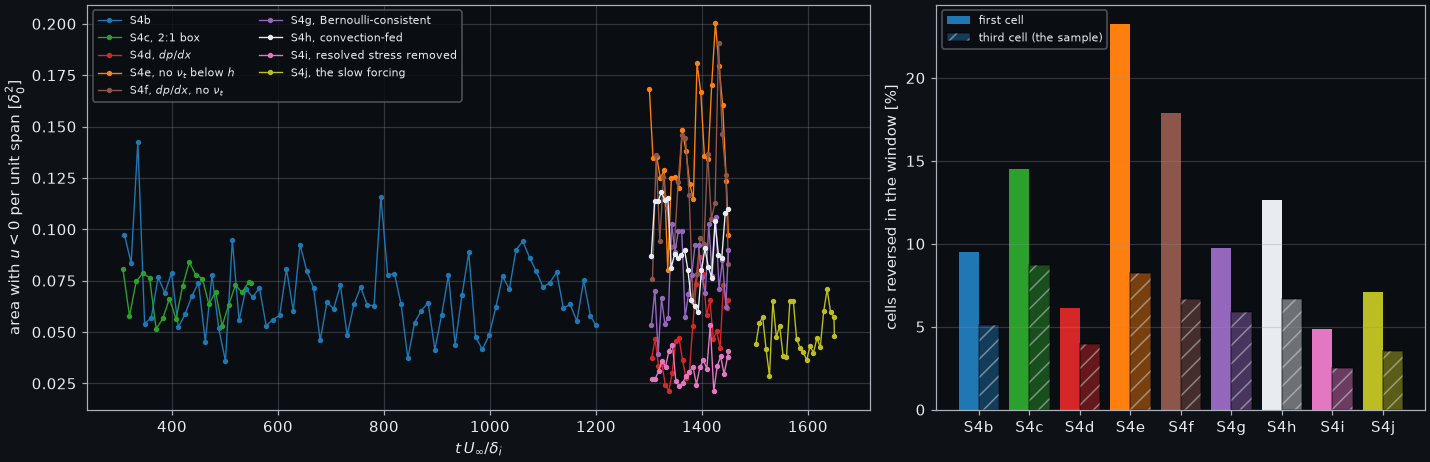
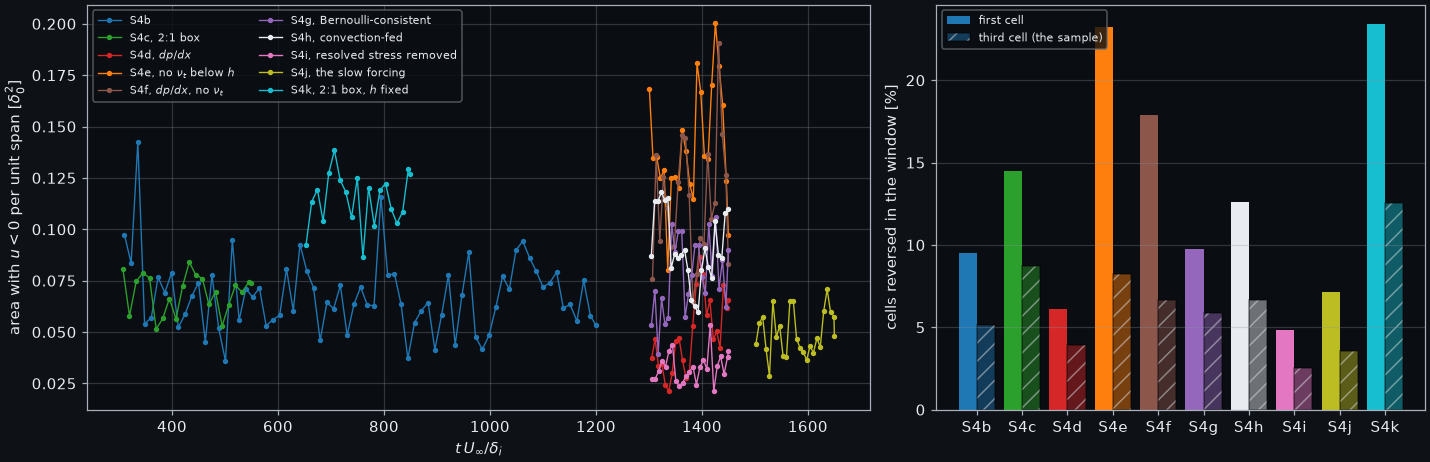
docs(flume): S4k, the matching height fixed in delta_i on the refined grid: the zero-gradient layer kept, a mean reversed first cell under a positive tau_w (#121)
S4c's 2:1 box (delta_i/24 for 25 <= x <= 75, y < 3) with wall_model_height = 5/24 delta_i, S4b's matching point, 5 fine cells
below it (S4c: 2.5, h halved), the plain equilibrium model: the configuration of Kawai & Larsson (2012) and Hoy & Bermejo-Moreno
(2022) on this grid. Restarted from S4c at t = 550 to 850; statistics t >= 650 (20 checkpoints).

- Zero-gradient layer: C_f over 35 <= x <= 48 +1.7 % against S4b (S4c +10.9 %): the criterion of 2 %, fixed before the run,
  passes; the log-layer mismatch of the halved matching height was S4c's drift.
- Interaction: L_int / delta_0 3.26 (DNS 3.30, S4b 3.15); the compression 0.25 delta_0 earlier than S4b's; the time-mean u of the
  first cell negative over 1.10 delta_0 (x 57.6-59.5, the downstream half of the DNS bubble), the second over 0.68: the first mean
  resolved reversal with the plain equilibrium model. tau_w stays positive (minimum 0.14e-3): the bubble lies below h, and the
  flux coupling of the face does not see it.
- Found on the way, documented, not fixed: outside the box h falls on the 3rd cell's centre, sample_cells returns the weight
  4.4e-16 instead of 0, and the eddy viscosity below h (mc = m - merge(1, 0, w == 0), adam_flume_fnl_forcing_kernels.F90:395)
  also enters the sample cell: C_f upstream of the box +4.2 % against S4b.

sbli.md: the section "The matching height fixed: S4k" (setup, criteria, table against S4c, S4b and the DNS), the De Vanna et al.
[…]

diff --git a/src/tests/flume/verification/make_doc_figures.py b/src/tests/flume/verification/make_doc_figures.py
@@ -2952,6 +2952,63 @@ def fig_sbli_refined(out: Path, runs: Path) -> None:
     plt.close(fig)
 
 
+def fig_sbli_fixed_h(out: Path, runs: Path) -> None:
+    """#121 S4k: the 2:1 box of S4c with the matching height fixed at S4b's, 5/24 delta_i (5 fine cells below it), restarted from S4c at t = 550,
+    against S4b and S4c (h halved with the cells). Data: the sbli_oracle JSONs <runs>/sbli/sbli-m2p28-8.json (S4b), -r2.json (S4c), -r2h.json
+    (S4k). Left: the wall pressure against x* with the DNS and the IUSTI points; right: C_f against x, the box and the zero-gradient stretch
+    35 <= x <= 48 shaded, each run's mean over that stretch against S4b's in the legend, the stretch where the time-mean u of the first cell is
+    negative hatched (the JSON's l_sep_u1, when present)."""
+    import json  # noqa: PLC0415
+
+    runs_ = [("sbli-m2p28-8", "C0", r"S4b, $\delta_i/12$, $h = 5/24\,\delta_i$"), ("sbli-m2p28-8-r2", "C3", r"S4c, 2:1 box, $h$ halved in it"),
+             ("sbli-m2p28-8-r2h", "k", r"S4k, 2:1 box, $h = 5/24\,\delta_i$ fixed")]
+    runs_ = [r for r in runs_ if (runs / "sbli" / f"{r[0]}.json").exists()]
+    js = {name: json.loads((runs / "sbli" / f"{name}.json").read_text()) for name, _, _ in runs_}
+
+    def zpg(j: dict) -> float:
+        x, cf = np.array(j["x"]), np.array(j["cf"])
+        return float(cf[(x >= 35.0) & (x <= 48.0)].mean())
+
+    ref = zpg(js["sbli-m2p28-8"])
+    fig, axs = plt.subplots(1, 2, figsize=(13.0, 4.4), constrained_layout=True)
+    ax = axs[0]
+    _sbli_refs(ax)
+    for name, c, lab in runs_:
+        j = js[name]
+        ax.plot(j["x_star"], j["pw_norm"], "-", color=c, lw=1.3, label=rf"{lab}: $L_{{int}}/\delta_0$ {j['l_int'] / j['delta0']:.2f}")
+    ax.axvline(-1.0, color="0.6", ls=":", lw=0.8)
+    ax.axvline(0.0, color="0.6", ls="--", lw=0.8)
+    ax.set_xlim(-2.0, 3.0)
+    ax.set_xlabel(r"$x^* = (x - x_{imp}) / L_{int}$")
+    ax.set_ylabel(r"$(p_w - p_\infty) / (p_2 - p_\infty)$")
+    ax.grid(alpha=0.3)
+    ax.legend(fontsize=7, loc="lower right")
+    ax = axs[1]
+    ax.axvspan(25.0, 75.0, color="C3", alpha=0.06, lw=0, label="the 2:1 box")
+    ax.axvspan(35.0, 48.0, color="0.5", alpha=0.12, lw=0, label=r"zero-gradient stretch $35 \leq x \leq 48$")
+    for name, c, lab in runs_:
+        j = js[name]
+        x, cf = np.array(j["x"]), np.array(j["cf"])
+        m = (x > 20.0) & (x < 85.0)
+        sep = rf"$\tau_w<0$ over {j['l_sep'] / j['delta0']:.2f} $\delta_0$" if j["l_sep"] > 0.0 else r"$\tau_w>0$"
+        l1 = j.get("l_sep_u1", 0.0)
+        if l1 > 0.0:  # the resolved flow's mean reversal: the first cell's time-mean u < 0, which tau_w misses below the sample
+            sep += rf", first cell $u<0$ over {l1 / j['delta0']:.2f} $\delta_0$"
+            ax.axvspan(j["x_sep_u1"], j["x_att_u1"], color=c, alpha=0.18, lw=0, hatch="///", fill=False)
+        ax.plot(x[m], 1e3 * cf[m], "-", color=c, lw=1.2, label=f"{lab.split(',')[0]}: stretch {100.0 * (zpg(j) / ref - 1.0):+.1f} %, {sep}")
+        if j["l_sep"] > 0.0:
+            ax.axvspan(j["x_sep"], j["x_att"], color=c, alpha=0.15, lw=0)
+    ax.axhline(0.0, color="k", lw=0.8)
+    ax.axvline(js["sbli-m2p28-8"]["x_imp"], color="0.6", ls="--", lw=0.8)
+    ax.set_xlim(20.0, 85.0)
+    ax.set_xlabel(r"$x/\delta_i$")
+    ax.set_ylabel(r"$10^3 C_f$ (the wall model's $\tau_w$)")
+    ax.grid(alpha=0.3)
+    ax.legend(fontsize=7, loc="upper left")
+    fig.savefig(out / "sbli-fixed-h.png", dpi=DPI)
+    plt.close(fig)
+
+
 def fig_sbli_apriori(out: Path, runs: Path) -> None:
     """#121 S4d P0: the equilibrium wall model applied a priori to the mean samples of S4b and S4c (sbli_oracle.py apriori), without and with the
     mean pressure gradient in its momentum balance, against the C_f of the runs' wall history. Data: <runs>/sbli/sbli-m2p28-8-apriori.json (S4b)
@@ -3211,7 +3268,7 @@ def fig_sbli_reversal(out: Path, runs: Path) -> None:
     runs_ = [("s4b", "S4b", "C0"), ("s4c", "S4c, 2:1 box", "C2"), ("s4d", "S4d, $dp/dx$", "C3"), ("s4e", r"S4e, no $\nu_t$ below $h$", "C1"),
              ("s4f", r"S4f, $dp/dx$, no $\nu_t$", "C5"), ("s4g", "S4g, Bernoulli-consistent", "C4"), ("s4h", "S4h, convection-fed", "k"),
              ("s4i", "S4i, resolved stress removed", "C6"),
-             ("s4j", "S4j, the slow forcing", "C8")]
+             ("s4j", "S4j, the slow forcing", "C8"), ("s4k", r"S4k, 2:1 box, $h$ fixed", "C9")]
     runs_ = [r for r in runs_ if (runs / "sbli" / f"rev2-{r[0]}.json").exists()]
     fig, axs = plt.subplots(1, 2, figsize=(13.0, 4.2), constrained_layout=True, gridspec_kw={"width_ratios": [1.6, 1.0]})
     first, third, labels, colors = [], [], [], []
@@ -5214,7 +5271,7 @@ FIGURES = {"sod": fig_sod, "lax": fig_lax, "shu-osher": fig_shu_osher, "vortex":
            "barotropic-eos": fig_barotropic_eos,
            "tgv-iles": fig_tgv_iles, "tgv-models": fig_tgv_models, "hit": fig_hit, "tgv-hybrid": fig_tgv_hybrid, "channel-wm": fig_channel_wm,
            "channel-m3": fig_channel_m3, "channel-m3-ev": fig_channel_m3_ev, "tbl-m2p5": fig_tbl_m2p5, "tbl-m6": fig_tbl_m6, "tbl-m2p5-res": fig_tbl_m2p5_res, "tbl-m2p5-hdef": fig_tbl_hdef, "tbl-edge": fig_tbl_edge, "nrbc": fig_nrbc, "shockgen": fig_shockgen, "shockgen-reflect": fig_shockgen_reflect,
-           "sbli": fig_sbli, "sbli-fields": fig_sbli_fields, "sbli-refined": fig_sbli_refined, "sbli-apriori": fig_sbli_apriori, "sbli-pg": fig_sbli_pg, "sbli-onset": fig_sbli_onset, "sbli-nonu": fig_sbli_nonu, "sbli-cells": fig_sbli_cells, "tbl-convection": fig_tbl_convection, "sbli-reversal": fig_sbli_reversal, "sbli-convective": fig_sbli_convective, "sbli-scales": fig_sbli_scales, "sbli-pg-runs": fig_sbli_pg_runs, "sbli-pg-fields": fig_sbli_pg_fields, "sbli-refined-fields": fig_sbli_refined_fields, "tbl-fields": fig_tbl_fields, "tbl-3d": fig_tbl_3d, "channel-fields": fig_channel_fields, "tgv-fields": fig_tgv_fields,
+           "sbli": fig_sbli, "sbli-fields": fig_sbli_fields, "sbli-refined": fig_sbli_refined, "sbli-fixed-h": fig_sbli_fixed_h,"sbli-apriori": fig_sbli_apriori, "sbli-pg": fig_sbli_pg, "sbli-onset": fig_sbli_onset, "sbli-nonu": fig_sbli_nonu, "sbli-cells": fig_sbli_cells, "tbl-convection": fig_tbl_convection, "sbli-reversal": fig_sbli_reversal, "sbli-convective": fig_sbli_convective, "sbli-scales": fig_sbli_scales, "sbli-pg-runs": fig_sbli_pg_runs, "sbli-pg-fields": fig_sbli_pg_fields, "sbli-refined-fields": fig_sbli_refined_fields, "tbl-fields": fig_tbl_fields, "tbl-3d": fig_tbl_3d, "channel-fields": fig_channel_fields, "tgv-fields": fig_tgv_fields,
            "barotropic-gravity": fig_barotropic_gravity,
            "barotropic-mhd": fig_barotropic_mhd,
            "sink-particles": fig_sink_particles,

diff --git a/docs/applications/flume/verification/streams/sbli.md b/docs/applications/flume/verification/streams/sbli.md
@@ -2,7 +2,7 @@
 
 | ID | Milestone | Type | Legs | Backends | Figure |
 |---|---|---|---|---|---|
-| — (campaign `tbl_cases_s4.txt`) | [#121](https://github.com/szaghi/adam/issues/121) · S4b–S4j | P | none (the pressure-gradient key: wm12) | FNL | yes |
+| — (campaign `tbl_cases_s4.txt`) | [#121](https://github.com/szaghi/adam/issues/121) · S4b–S4k | P | none (the pressure-gradient key: wm12) | FNL | yes |
 
 ## Case and scope
 
@@ -152,12 +152,59 @@ outside it, the box outlined in orange in the schlieren). `make_doc_figures.py -
   an adjustment over about $10\,\delta_i$ behind the 2:1 face, it is 10 % higher before the interaction. The
   equilibrium model's $\tau_w$ follows the velocity at its matching point, and that point moved from $0.12$ to
   $0.06\,\delta_0$ (the log-layer mismatch of Kawai & Larsson 2012). A matching height fixed in $\delta_i$, not in
-  cells, would keep the two levels consistent.
+  cells, would keep the two levels consistent; it does, within 1.7 % ([S4k](#the-matching-height-fixed-s4k)).
 - **What remains is the model.** The equilibrium model integrates a constant total stress across its layer, so its
   $\tau_w$ turns negative only where the velocity at the matching height reverses on average. With the matching point
   at $0.06\,\delta_0$ it does not; the pressure-gradient term, which lets $\tau_w$ reverse under a strong adverse
   gradient while the matching velocity is still positive, was tested next
   ([below](#the-wall-model-with-the-pressure-gradient)): a bubble of $0.6\,\delta_0$, a quarter of the DNS's.
+
+### The matching height fixed: S4k
+
+The configuration of Kawai & Larsson (2012) and of Hoy & Bermejo-Moreno (2022) on this grid: the matching height fixed in
+$\delta_i$ instead of in cells, `wall_model_height` $=5/24\,\delta_i=0.117\,\delta_0$, S4b's matching point, with 5 cells below it
+in the box (S4c: 2.5 cells, $h$ halved). Plain equilibrium model, eddy viscosity below $h$. S4c restarted from $t=550$ to 850 on
+S4c's two nodes (8 A30, 18 h 33 min, 1.19 s per step); the statistics take the span and the 20 checkpoints of $653\le t\le850$
+(`sbli_oracle.py compare --t0 650`). Criteria fixed before the run: (a) $C_f$ over $35\le x\le48$ (in the box, past the
+adjustment behind the 2:1 face, ahead of the interaction) within 2 % of S4b's, where S4c is +10.9 % by the same measure; (b) a
+mean bubble and $L_{int}$ within 10 % of the DNS's.
+
+![S4k against S4b and S4c: wall pressure and skin friction](/flume/sbli-fixed-h.png)
+
+*Left: the mean wall pressure of S4b, S4c and S4k against the DNS and the experiment. Right: $C_f$ from the wall model's
+$\tau_w$, the box and the stretch $35\le x\le48$ shaded, the stretch where the time-mean $u$ of S4k's first cell is negative hatched.
+`make_doc_figures.py --only sbli-fixed-h`.*
+
+| | S4k, 2:1 box, $h$ fixed | S4c, 2:1 box, $h$ halved | S4b | DNS, $Re_\theta=6882$ |
+|---|---|---|---|---|
+| $Re_\theta$ at $x_{imp}$, nominal; $\delta_0$ | 5253; 1.783 | 5314; 1.824 | 5247; 1.807 | |
+| $C_f$ over $35\le x\le48$ against S4b | **+1.7 %** | +10.9 % | | |
+| $C_f$ against S4b: $x=15$–24 (outside the box), 45–52, 64–70, 76–90 | +4.2, +2.2, $-4.5$, $-8.3$ % | $-0.3$, +7.6, +1.5, $-7.6$ % | | |
+| $L_{int}/\delta_0$ | **3.26** | 3.04 | 3.15 | 3.30 |
+| $L_{sep}/\delta_0$ from $\tau_w$; $C_f$ minimum ($10^{-3}$) | 0; 0.14 at $x=58.6$ | 0; 0.10 at $x=58.4$ | 0; 0.22 at $x=58.6$ | 2.16 ($x^*=-0.8$ to $-0.15$) |
+| time-mean $u<0$: first cell; second cell | **$x=57.6$–59.5, $1.10\,\delta_0$** ($x^*=-0.41$ to $-0.08$); $0.68\,\delta_0$ | none | none | |
+| 5 % / 50 % of the rise, $\delta_0$ ahead of $x_{imp}$ | 2.58 / 2.28 | 2.33 / 2.00 | 2.34 / 1.96 | 4.13 / 3.60 |
+| $(p_w-p_\infty)/(p_2-p_\infty)$ at $x^*=-0.5$, 0, 0.5, 1, 2 | 1.02, 1.57, 2.11, 2.28, 2.39 | 0.89, 1.76, 2.14, 2.26, 2.39 | 1.12, 1.72, 2.09, 2.24, 2.37 | 1.75, 2.07, 2.22, 2.29, 2.36 |
+| reversed area per unit span, mean (max), $\delta_0^2$ | 0.115 (0.138) | 0.069 (0.084) | 0.068 (0.142) | |
+| first / third cells reversed in the window | 23.4 % / 12.6 % | 14.5 % / 8.7 % | 9.5 % / 5.1 % | |
+
+The two refined runs count fine cells, S4b coarse ones: the reversed fractions compare S4k with S4c.
+
+- **(a) passes: the matching height fixed in $\delta_i$ keeps the refined layer on S4b's.** Over $35\le x\le48$ $C_f$ is 1.7 %
+  above S4b's, against S4c's 10.9 %: the log-layer mismatch of the halved matching height was S4c's drift. One difference outside
+  the box was not planned: there $h=5/24\,\delta_i$ falls on the 3rd cell's centre, the sample weight comes out $4\cdot10^{-16}$ instead
+  of 0, and the eddy viscosity below $h$, which skips the sample cell only when the weight is exactly 0, also enters the 3rd cell
+  (`sample_cells`, `adam_flume_wall_model_library.F90`). Upstream of the box $C_f$ is then 4.2 % above S4b's, and the layer
+  entering the box carries that.
+- **(b) half passes: the resolved flow separates, the wall stress does not.** $L_{int}$ is the DNS's within 1.2 %, and the
+  compression starts $0.25\,\delta_0$ earlier than in S4b and S4c (still $1.5\,\delta_0$ behind the DNS's). For the first time with
+  the plain equilibrium model the time-mean $u$ of the first cell is negative, over $1.10\,\delta_0$ (half the DNS's bubble, in its
+  downstream half), and of the second over $0.68\,\delta_0$; a quarter of the first cells are reversed in the window. The model's
+  $\tau_w$ stays positive everywhere (minimum $0.14\cdot10^{-3}$): the bubble is about two fine cells tall, below the matching height,
+  and the model, which sees only the flow at $h$, keeps the positive $\tau_w$ of a forward flow over a reversed first cell.
+- **So the remaining gap is the coupling.** The face takes the model's $\tau_w$ whatever the first cell does; a coupling through the
+  wall viscosity with the no-slip condition kept (De Vanna et al. 2022), where the first cell sets the sign of the wall stress, is
+  the next test ([wall models in the literature](#wall-models-for-this-interaction-in-the-literature)).
 
 ## The wall model with the pressure gradient
 
@@ -293,6 +340,7 @@ suggests on these runs.
 | Hickel, Touber, Bodart & Larsson (2012, CTR Summer Program) | this interaction (IUSTI, $8^\circ$), a priori on the wall-resolved LES of Touber & Sandham (2009); an adverse-pressure-gradient layer | Above the viscous layer the convective term balances the pressure gradient (Bernoulli), so a model that keeps $dp/dx$ and drops convection, as here, is inconsistent: on the adverse-gradient layer it separates much too early, and the model of Duprat et al. (2011), whose velocity scale S4d uses, over-predicts the wall shear of the interaction. Convection parametrised as $-\frac{1}{\rho}\frac{dp}{dx}\min(y/y_{pg},1)$, $y_{pg}=4\,(\mu_w^2/(\rho_w\lvert dp/dx\rvert))^{1/3}$, gives a skin friction close to the reference |
 | Larsson, Kawai, Bodart & Bermejo-Moreno (2016, Mech. Eng. Rev. 3) | review | Equilibrium models can be accurate in these interactions "provided that the outer part of the boundary layer is well resolved" (a duct interaction near incipient separation; a ramp at $Re_\theta\approx50\,000$, where the equilibrium model fell within the experimental uncertainty as the non-equilibrium one did): no conclusive demonstration that a non-equilibrium model is better yet. Outer-layer grid: $\Delta x\approx0.08\,\delta$, $\Delta z\approx0.05\,\delta$, $\Delta y$ from $0.02\,\delta$ at $y=0.2\,\delta$ to $0.05\,\delta$ at $\delta$ |
 | Fu, Karp, Bose, Moin & Urzay (2021, JFM) | Mach 6, laminar inflow, transitional interaction | The equilibrium-model LES delays the separation and advances the reattachment: a shorter bubble than the DNS's (the symptom here, in a different regime) |
+| De Vanna, Bernardini, Picano & Benini (2022, IJHFF 98) | this interaction (IUSTI, $8^\circ$, Mach 2.28, $Re_\tau\approx700$ at the inflow), WALE, $\Delta x^+=140$–82, first $\Delta y^+=39$–34 on a stretched grid | An equilibrium model coupled through a wall viscosity added to the molecular one, the no-slip condition kept: the first cell sets the sign of the wall stress, so $C_f$ turns negative in the bubble. The incoming $C_f$ matches their wall-resolved LES at every resolution, but $L_{int}/\delta_0$ is 7.0 / 5.2 / 5.0 (coarse to fine) against 3.3 wall-resolved and 4.18 measured, attributed to the model and to the subgrid and shock-capturing dissipation |
 
 **Against these runs.** S4b's grid ($0.046\,\delta_0$, cubic) is finer than the guideline in $x$, equal in $z$ and 2.3
 times coarser in $y$ at $0.2\,\delta$; S4c's box ($0.023\,\delta_0$) meets it everywhere, and does not separate either.
@@ -708,7 +756,7 @@ sample weighs $e^{-3}$; the olive line of [the figure above](#the-pressure-gradi
 
 ## Not done
 
-- A separation of the right length and place. The equilibrium-type models do not give it: the pressure gradient alone opens $0.6\,\delta_0$ by an inconsistent balance, the consistent one none, the slower near-wall layer $0.14\,\delta_0$ ([above](#the-pressure-gradient-without-the-convection-with-it-and-without-the-eddy-viscosity)). The model fed with the resolved convection (S4h) moves the onset and $L_{int}$ the right way and opens $0.18\,\delta_0$ where the DNS's bubble begins, but counts the resolved stress twice ($C_f$ of the zero-gradient layer +5 to +12 %). With the resolved stress removed and the velocity scale from $\tau_w$ (S4i) it passes the zero-gradient layer, but the scale collapses under the adverse gradient: $\tau_w<0$ under a forward first cell and a shorter interaction ([above](#the-run-s4i)). Velocity scales meant to keep the mean forcing without its fluctuation, tested a priori on both flows ([above](#a-priori-the-velocity-scale-of-the-eddy-viscosity)): only the slow forcing, in both the balance and S4h's scale $|\tau_w|+|\bar S|$, keeps the zero-gradient layer; run as S4j ([above](#the-run-s4j)) it keeps the incoming layer and returns the interaction to S4b's (no bubble beyond $0.14\,\delta_0$, the compression $0.25\,\delta_0$ later). No wall model tried here, equilibrium-type or fed with the resolved convection, both consistent on the zero-gradient layer and closer to the DNS in the interaction. Left: a matching height fixed in $\delta$ above the DNS's bubble (about $4h$ tall), and a matching height fixed in $\delta_i$ across the levels.
+- A separation of the right length and place. The equilibrium-type models do not give it: the pressure gradient alone opens $0.6\,\delta_0$ by an inconsistent balance, the consistent one none, the slower near-wall layer $0.14\,\delta_0$ ([above](#the-pressure-gradient-without-the-convection-with-it-and-without-the-eddy-viscosity)). The model fed with the resolved convection (S4h) moves the onset and $L_{int}$ the right way and opens $0.18\,\delta_0$ where the DNS's bubble begins, but counts the resolved stress twice ($C_f$ of the zero-gradient layer +5 to +12 %). With the resolved stress removed and the velocity scale from $\tau_w$ (S4i) it passes the zero-gradient layer, but the scale collapses under the adverse gradient: $\tau_w<0$ under a forward first cell and a shorter interaction ([above](#the-run-s4i)). Velocity scales meant to keep the mean forcing without its fluctuation, tested a priori on both flows ([above](#a-priori-the-velocity-scale-of-the-eddy-viscosity)): only the slow forcing, in both the balance and S4h's scale $|\tau_w|+|\bar S|$, keeps the zero-gradient layer; run as S4j ([above](#the-run-s4j)) it keeps the incoming layer and returns the interaction to S4b's (no bubble beyond $0.14\,\delta_0$, the compression $0.25\,\delta_0$ later). No wall model tried here, equilibrium-type or fed with the resolved convection, both consistent on the zero-gradient layer and closer to the DNS in the interaction. A matching height fixed in $\delta_i$ across the levels, with 5 cells below it in a 2:1 box (S4k, [above](#the-matching-height-fixed-s4k)), keeps the zero-gradient layer within 1.7 % and gives $L_{int}$ 3.26 and a mean reversed first cell over $1.10\,\delta_0$, under a wall stress that stays positive: the bubble lies below the matching height, which the flux coupling of the face cannot see. Left: the coupling through a wall viscosity with the no-slip condition kept (De Vanna et al. 2022), and a matching height fixed in $\delta$ above the DNS's bubble (about $4h$ tall).
 - The late compression ($x^*\approx-0.6$ half-way against the DNS's $-1.1$), unchanged by the near-wall grid and by the pressure-gradient term; moved 40 % of the way by taking out the eddy viscosity below $h$ (S4e), which also moves the incoming layer off the DNS's: the matching between the model and the resolved near-wall cells.
 - The wall-pressure fluctuations and the low-frequency unsteadiness.
 - The recycling–rescaling inflow (S5).

diff --git a/docs/applications/flume/verification/streams/index.md b/docs/applications/flume/verification/streams/index.md
@@ -51,10 +51,11 @@ The toolchain is [#121](https://github.com/szaghi/adam/issues/121), which contin
 | S4h | The model fed with the resolved convection (`wall_model_convection`): the onset and $L_{int}$ move toward the DNS, the zero-gradient $C_f$ by +5 to +12 % | wm2, wm13 (turbulence); a run restarted from S4b | [Shock/boundary-layer interaction](./sbli#the-run-s4h) |
 | S4i | And the resolved stress removed, the velocity scale from $\tau_w$ (`wall_model_resolved_stress`): passes the zero-gradient layer; in the interaction $\tau_w<0$ under a forward first cell, $L_{int}$ 2.94 | wm13 (turbulence); a run restarted from S4b | [Shock/boundary-layer interaction](./sbli#the-run-s4i) |
 | S4j | The slow forcing (`wall_model_velocity_scale = sum`, the resolved stress removed, the forcing filtered over 100): the incoming layer within 2 % of S4b's, the interaction S4b's ($L_{int}$ 3.12, $L_{sep}$ 0.14) | wm13 (turbulence); a run restarted from S4b | [Shock/boundary-layer interaction](./sbli#the-run-s4j) |
+| S4k | The 2:1 box of S4c with the matching height fixed at S4b's, $5/24\,\delta_i$ (`wall_model_height`): the zero-gradient layer within 1.7 % of S4b's, $L_{int}$ 3.26, a mean reversed first cell over $1.10\,\delta_0$ under a positive $\tau_w$ | a run restarted from S4c | [Shock/boundary-layer interaction](./sbli#the-matching-height-fixed-s4k) |
 | S5 | Recycling–rescaling turbulent inflow | — | not started |
 
 | Page | Phases | Legs | Type |
 |---|---|---|---|
 | [Non-reflecting boundary](./non-reflecting) | S2 | nr1–nr4 | P |
 | [Shock generator](./shock-generator) | S3, S4a | sg1–sg4 (boundary) | P |
-| [Shock/boundary-layer interaction](./sbli) | S4b–S4j | campaign | P |
+| [Shock/boundary-layer interaction](./sbli) | S4b–S4k | campaign | P |
